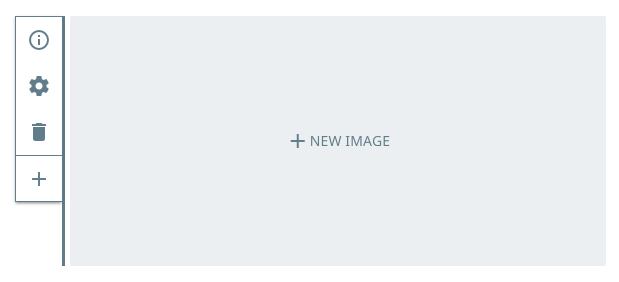
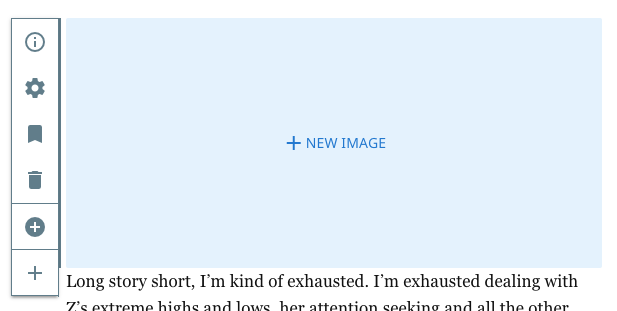
create from bookmark, add bookmark from overlay

Changed region(s): [[0.0, 0.0567, 0.9546, 1.0], [0.4619, 0.4255, 0.6467, 0.539]]

diff --git a/lib/component-data/add-component.vue b/lib/component-data/add-component.vue
@@ -77,7 +77,7 @@
         </div>
       </div>
       <div class="add-component-list">
-        <filterable-list :content="loaded ? components : preloadComponents" filterLabel="Find Component" filterHelp="Or pick from your most used components" @root-action="itemClick"></filterable-list>
+        <filterable-list :content="loaded ? components : preloadComponents" filterLabel="Find Component" filterHelp="Or pick from your most used components" @root-action="itemClick" @child-action="itemClick"></filterable-list>
       </div>
     </div>
   </transition>
@@ -92,6 +92,7 @@
   import label from '../utils/label';
   import { getComponentName } from '../utils/references';
   import { OPEN_ADD_COMPONENT } from './mutationTypes';
+  import { getObject } from '../core-data/api';
   import UiIconButton from 'keen/UiIconButton';
   import filterableList from '../utils/filterable-list.vue';
 
@@ -165,7 +166,8 @@
               id: component,
               title: label(component)
             };
-          });
+          }),
+          allBookmarks = _.cloneDeep(_.get(this.$store, 'state.lists[bookmarks].items', []));
 
         return getItem(`addcomponents:${parentName}.${path}`).then((sortList) => {
           sortList = sortList || []; // initialize if it doesn't exist
@@ -177,12 +179,18 @@
             });
 
           this.loaded = true; // switch to the sorted list
-          return _.map(sortedComponents, (component) => {
-            return {
-              id: component.name,
-              title: label(component.name)
-            };
-          }).concat(unsortedComponents);
+          return _.map(_.map(sortedComponents, (component) => ({
+            id: component.name,
+            title: label(component.name)
+          })).concat(unsortedComponents), (item) => {
+            const bookmarks = _.find(allBookmarks, (b) => b.name === item.id);
+
+            if (bookmarks) {
+              item.children = bookmarks.children;
+            }
+
+            return item;
+          });
         });
       }
     },
@@ -238,15 +246,22 @@
       itemClick(id) {
         const self = this,
           parentName = getComponentName(self.config.parentURI),
-          path = self.config.path;
+          path = self.config.path,
+          isBookmark = _.includes(id, '/_components/'),
+          componentName = isBookmark ? getComponentName(id) : id;
 
-        return updateArray(`addcomponents:${parentName}.${path}`, { name: id })
+        return updateArray(`addcomponents:${parentName}.${path}`, { name: componentName })
           .then(() => {
+            if (isBookmark) {
+              return getObject(id);
+            }
+          })
+          .then((data) => {
             return self.$store.dispatch('addComponents', {
               currentURI: self.config.currentURI,
               parentURI: self.config.parentURI,
               path,
-              components: [{ name: id }]
+              components: [{ name: componentName, data }]
             })
               .then((newEl) => {
                 if (newEl) {

diff --git a/lib/forms/overlay.vue b/lib/forms/overlay.vue
@@ -110,6 +110,7 @@
           <ui-icon-button v-if="componentLabel" type="secondary" color="black" icon="info_outline" :tooltip="`${componentLabel} Info`" @click.stop="openInfo"></ui-icon-button>
           <ui-icon-button v-if="hasSettings" type="secondary" color="black" icon="settings" :tooltip="`${componentLabel} Settings`" @click.stop="openSettings"></ui-icon-button>
           <component v-for="(button, index) in customButtons" :is="button" :key="index"></component>
+          <ui-icon-button v-show="hasBookmark" type="secondary" color="black" icon="bookmark" tooltip="Bookmark" @click.stop="bookmarkInstance"></ui-icon-button>
           <ui-icon-button v-if="hasRemove" type="secondary" color="black" icon="delete" :tooltip="`Remove ${componentLabel}`" @click.stop="removeComponent"></ui-icon-button>
           <ui-icon-button v-if="hasDuplicateComponent && isBelowMaxLength" type="secondary" color="black" icon="add_circle_outline" :tooltip="`Add ${componentLabel}`" @click.stop="duplicateComponent"></ui-icon-button>
           <ui-icon-button v-if="hasDuplicateComponentWithData && isBelowMaxLength" type="secondary" color="black" icon="add_circle" :tooltip="`Duplicate ${componentLabel}`" @click.stop="duplicateComponentWithData"></ui-icon-button>
@@ -150,7 +151,7 @@
   import { has as hasGroup } from '../core-data/groups';
   import label from '../utils/label';
   import logger from '../utils/log';
-  import { fieldProp, getComponentName, componentListProp } from '../utils/references';
+  import { fieldProp, getComponentName, componentListProp, bookmarkProp } from '../utils/references';
   import { getComponentEl } from '../utils/component-elements';
   import field from './field.vue';
   import UiIconButton from 'keen/UiIconButton';
@@ -214,6 +215,9 @@
       },
       fields: (state) => state.ui.currentForm.fields,
       schema: (state) => getSchema(state.ui.currentForm.uri),
+      hasBookmark() {
+        return _.get(this.$store, 'state.user.auth') === 'admin' && _.get(this.schema, bookmarkProp);
+      },
       hasRequiredFields() {
         // true if any of the fields in the current form have required validation
         return _.some(this.schema, (val, key) => _.includes(Object.keys(this.fields), key) && _.has(val, `${fieldProp}.validate.required`));
@@ -358,6 +362,13 @@
       },
       openSettings() {
         return this.$store.dispatch('focus', { uri: _.get(this.$store, 'state.ui.currentForm.uri'), path: 'settings' });
+      },
+      bookmarkInstance() {
+        return this.$store.dispatch('openModal', {
+          title: `Bookmark ${this.componentLabel}`,
+          data: _.get(this.$store, 'state.ui.currentSelection.uri'),
+          type: 'add-bookmark'
+        });
       },
       removeComponent() {
         const currentURI = _.get(this.$store, 'state.ui.currentSelection.uri'),

diff --git a/lib/utils/filterable-list-item.vue b/lib/utils/filterable-list-item.vue
@@ -98,18 +98,18 @@
 </style>
 
 <template>
-  <li class="filterable-list-item" :data-item-id="item.id" :ref="item.id" :class="{ expanded: expanded }">
+  <li class="filterable-list-item" :data-item-id="item.id" :ref="item.id" :class="{ expanded: shouldExpand && expanded }">
     <div class="filterable-list-item-inner" :class="{ focused: focused, active: active, selected: selected, 'clickable': hasRootAction }" @click.stop="handleClick(item.id, item.title)">
       <ui-icon-button v-if="hasReorder" type="button" class="filterable-list-item-drag" tooltip="Drag to Reorder" icon="drag_handle"></ui-icon-button>
       <button
         type="button"
         class="filterable-list-item-btn"
-        v-conditional-focus="focused"
         @keydown.down.stop.prevent="$emit('focus-down')"
         @keydown.up.stop.prevent="$emit('focus-up')"
         @keydown.enter.stop.prevent="onEnterDown"
         @keydown.right.stop.prevent="toggleExpand"
-        @keyup.enter.stop="onEnterUp">
+        @keyup.enter.stop.prevent="onEnterUp"
+        v-conditional-focus="focused">
         {{ item.title }}
       </button>
       <ui-ripple-ink v-if="hasRootAction" ref="ripple" :trigger="item.id"></ui-ripple-ink>
@@ -193,7 +193,6 @@
         this.$emit('set-active', this.index, null);
       },
       onEnterUp() {
-        this.$emit('set-active', this.index, null);
         this.handleClick(this.item.id, this.item.title);
       },
       handleClick(id, title) {

diff --git a/lib/utils/filterable-list-item-child.vue b/lib/utils/filterable-list-item-child.vue
@@ -74,7 +74,10 @@
       type="button"
       class="filterable-list-item-child-btn"
       @keydown.down.stop.prevent="$emit('focus-down')"
-      @keydown.up.stop.prevent="$emit('focus-up')">
+      @keydown.up.stop.prevent="$emit('focus-up')"
+      @keydown.enter.stop.prevent="onEnterDown"
+      @keyup.enter.stop.prevent="onEnterUp"
+      v-conditional-focus="focused">
       {{ child.title }}
     </button>
     <ui-ripple-ink v-if="hasChildAction" ref="ripple" :trigger="child.id"></ui-ripple-ink>
@@ -130,8 +133,7 @@
         this.$emit('set-active', this.parentIndex, this.index);
       },
       onEnterUp() {
-        this.$emit('set-active', this.parentIndex, this.index);
-        this.handleClick(this.child.id, this.child.title);
+        this.handleChildClick(this.child.id, this.child.title);
       },
       handleChildClick(id, title) {
         if (this.hasChildAction) {

diff --git a/lib/utils/filterable-list.vue b/lib/utils/filterable-list.vue
@@ -83,7 +83,7 @@
         :autofocus="true"
         @keyup.prevent
         @keydown.up.stop
-        @keydown.down.stop="focusDown"
+        @keydown.down.stop.prevent="focusDown"
         @keydown.enter.stop.prevent="onEnterDown"
         v-conditional-focus="focusIsNull"></ui-textbox>
     </div>
@@ -345,9 +345,9 @@
         const input = find(this.$el, '.filterable-list-input input');
 
         // simulate active states when pressing enter
-        if (this.matches.length === 1 && !this.matches[0].children) {
-          this.focusOnIndex(0, 0);
-          this.setActive(0, 0);
+        if (this.matches.length === 1 && !_.get(this.matches, '[0].children.length')) {
+          this.focusOnIndex(0, null);
+          this.setActive(0, null);
         } else {
           this.setActive(null, null);
           if (input) {

diff --git a/lib/toolbar/add-bookmark.vue b/lib/toolbar/add-bookmark.vue
@@ -44,12 +44,12 @@
 
           if (currentComponentBookmarks) {
             // add to existing component bookmarks
-            currentComponentBookmarks.bookmarks.push({ id: uri, title });
+            currentComponentBookmarks.children.push({ id: uri, title });
           } else {
             // add to new component bookmarks
             items.push({
               name,
-              bookmarks: [{ id: uri, title }]
+              children: [{ id: uri, title }]
             });
           }
           return items;

diff --git a/edit.js b/edit.js
@@ -142,6 +142,7 @@ document.addEventListener('DOMContentLoaded', function () {
     .then(() => require('./lib/decorators').decorateAll())
     .then(() => store.dispatch('parseURLHash'))
     .then(() => store.dispatch('getList', 'new-pages'))
+    .then(() => store.dispatch('getList', 'bookmarks'))
     .then(() => {
       const pageTemplates = _.get(store, 'state.lists[new-pages].items'),
         currentPageURI = _.get(store, 'state.page.uri'),
